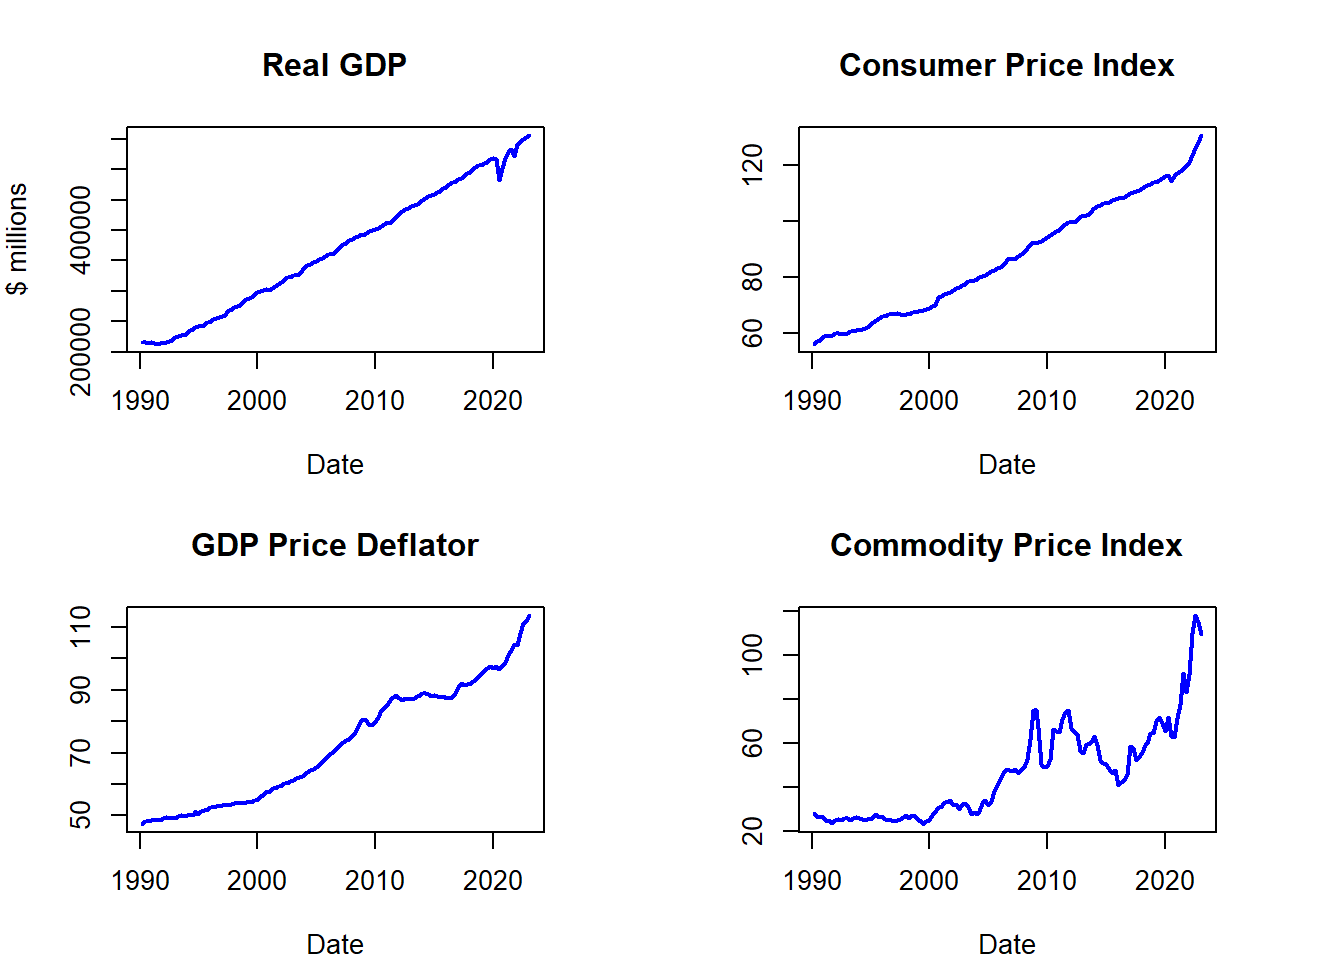
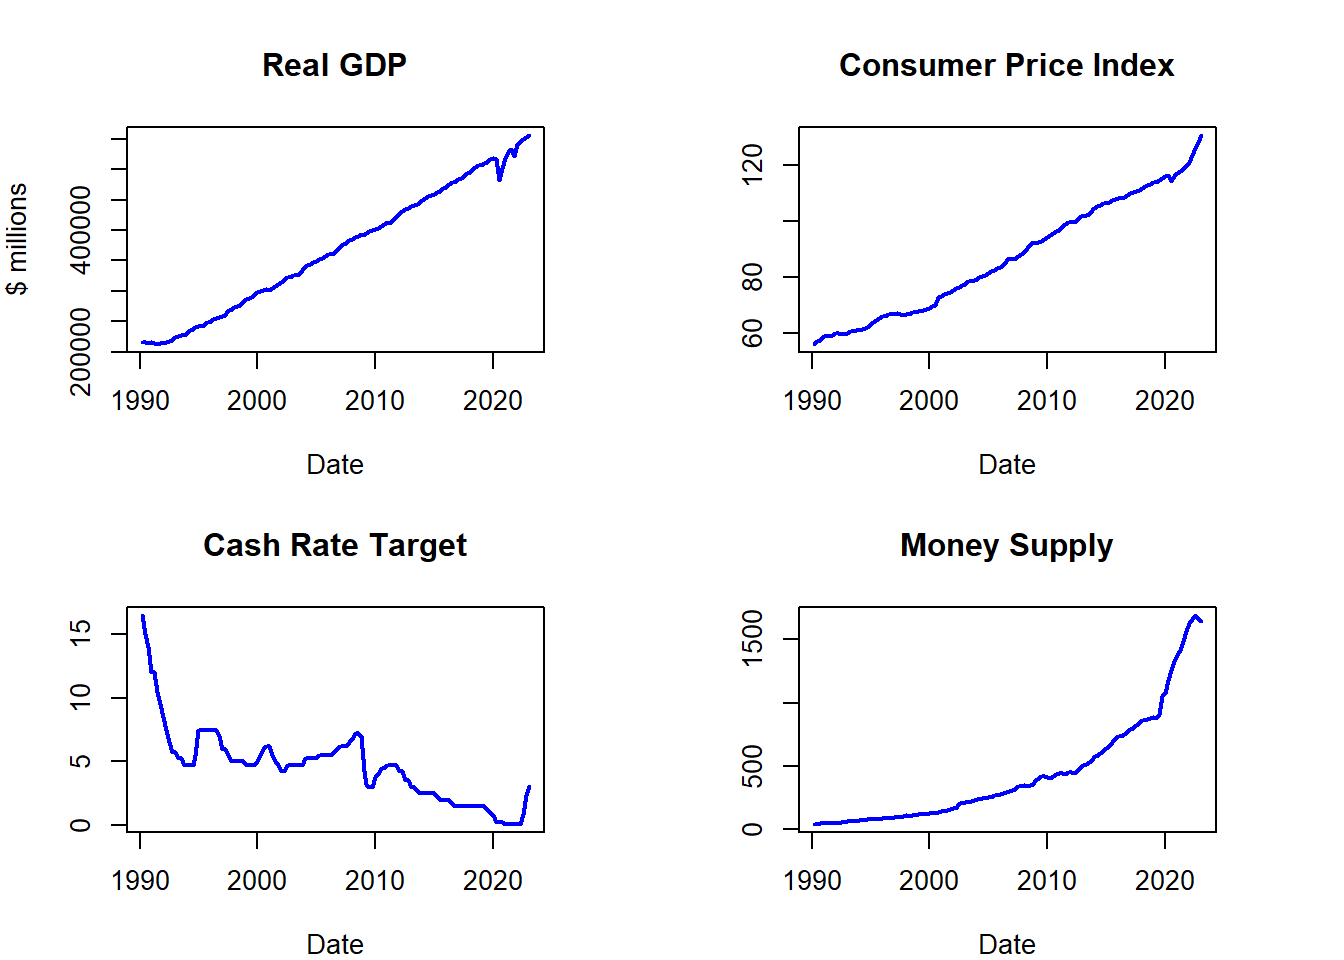
Made start on code
Attempted to obtain Sigma and A posterior.

diff --git a/docs/index.html b/docs/index.html
@@ -94,10 +94,7 @@ ul.task-list li input[type="checkbox"] {
   <ul class="collapse">
   <li><a href="#acf-and-pacf-plots" id="toc-acf-and-pacf-plots" class="nav-link" data-scroll-target="#acf-and-pacf-plots">ACF and PACF plots</a></li>
   </ul></li>
-  <li><a href="#methodology" id="toc-methodology" class="nav-link" data-scroll-target="#methodology">Methodology</a>
-  <ul class="collapse">
-  <li><a href="#references" id="toc-references" class="nav-link" data-scroll-target="#references">References</a></li>
-  </ul></li>
+  <li><a href="#methodology" id="toc-methodology" class="nav-link" data-scroll-target="#methodology">Methodology</a></li>
   </ul>
 </nav>
     </div>
@@ -149,9 +146,6 @@ ul.task-list li input[type="checkbox"] {
 <div class="cell-output-display">
 <p><img src="index_files/figure-html/plots-2.png" class="img-fluid" width="672"></p>
 </div>
-<div class="cell-output-display">
-<p><img src="index_files/figure-html/plots-3.png" class="img-fluid" width="672"></p>
-</div>
 </div>
 </section>
 <section id="preliminary-results" class="level1">
@@ -171,45 +165,50 @@ ul.task-list li input[type="checkbox"] {
 <div class="cell-output-display">
 <p><img src="index_files/figure-html/(P)ACF plots-4.png" class="img-fluid" width="672"></p>
 </div>
-<div class="cell-output-display">
-<p><img src="index_files/figure-html/(P)ACF plots-5.png" class="img-fluid" width="672"></p>
-</div>
 </div>
 <p>##Integration order verification</p>
 <div class="cell">
 <div class="cell-output cell-output-stdout">
-<pre><code>                               Variable Lag.Order ADF.Statistic   p.value
-1                              Real GDP         4     -4.101261 0.0100000
-2                  Consumer Price Index         4     -1.227300 0.8978238
-3                    GDP Price Deflator         4     -1.229906 0.8967400
-4                 Commodity Price Index         4     -1.421895 0.8169025
-5                      Cash Rate Target         4     -4.867360 0.0100000
-6                          Money Supply         4     -1.083142 0.9218481
-7         Unemployment Rate: Queensland         4     -1.863189 0.6333935
-8    Unemployment Rate: New South Wales         4     -2.828556 0.2319516
-9           Unemployment Rate: Victoria         4     -2.127751 0.5233770
-10 Unemployment Rate: Western Australia         4     -2.034770 0.5620423</code></pre>
+<pre><code>                              Variable Lag.Order ADF.Statistic   p.value
+1                             Real GDP         4     -4.101261 0.0100000
+2                 Consumer Price Index         4     -1.227300 0.8978238
+3                     Cash Rate Target         4     -4.867360 0.0100000
+4                         Money Supply         4     -1.083142 0.9218481
+5        Unemployment Rate: Queensland         4     -1.863189 0.6333935
+6   Unemployment Rate: New South Wales         4     -2.828556 0.2319516
+7          Unemployment Rate: Victoria         4     -2.127751 0.5233770
+8 Unemployment Rate: Western Australia         4     -2.034770 0.5620423</code></pre>
 </div>
 <div class="cell-output cell-output-stdout">
-<pre><code>                               Variable Lag.Order ADF.Statistic    p.value
-1                                  &lt;NA&gt;        NA            NA         NA
-2                  Consumer Price Index         3     -2.753556 0.26317856
-3                    GDP Price Deflator         3     -4.829310 0.01000000
-4                 Commodity Price Index         3     -6.557985 0.01000000
-5                                  &lt;NA&gt;        NA            NA         NA
-6                          Money Supply         3     -3.353431 0.06542824
-7         Unemployment Rate: Queensland         3     -6.545921 0.01000000
-8    Unemployment Rate: New South Wales         3     -5.257979 0.01000000
-9           Unemployment Rate: Victoria         3     -6.576128 0.01000000
-10 Unemployment Rate: Western Australia         3     -6.968956 0.01000000</code></pre>
+<pre><code>                              Variable Lag.Order     ADF.Statistic
+1                             Real GDP       N/A               N/A
+2                 Consumer Price Index         3 -2.75355555867098
+3                     Cash Rate Target       N/A               N/A
+4                         Money Supply         3  -3.3534305304591
+5        Unemployment Rate: Queensland         3 -6.54592129393322
+6   Unemployment Rate: New South Wales         3 -5.25797923475302
+7          Unemployment Rate: Victoria         3 -6.57612760557298
+8 Unemployment Rate: Western Australia         3 -6.96895591125315
+            p.value
+1               N/A
+2 0.263178561883166
+3               N/A
+4 0.065428244923483
+5              0.01
+6              0.01
+7              0.01
+8              0.01</code></pre>
 </div>
 <div class="cell-output cell-output-stdout">
-<pre><code>          Variable Lag.Order ADF.Statistic p.value
-1         Real GDP         3    -14.330921    0.01
-2             &lt;NA&gt;        NA            NA      NA
-3             &lt;NA&gt;        NA            NA      NA
-4             &lt;NA&gt;        NA            NA      NA
-5 Cash Rate Target         3     -7.925252    0.01</code></pre>
+<pre><code>                              Variable Lag.Order     ADF.Statistic p.value
+1                             Real GDP       N/A               N/A     N/A
+2                 Consumer Price Index         3 -9.83668259722552    0.01
+3                     Cash Rate Target       N/A               N/A     N/A
+4                         Money Supply         3  -5.8300171259421    0.01
+5        Unemployment Rate: Queensland       N/A               N/A     N/A
+6   Unemployment Rate: New South Wales       N/A               N/A     N/A
+7          Unemployment Rate: Victoria       N/A               N/A     N/A
+8 Unemployment Rate: Western Australia       N/A               N/A     N/A</code></pre>
 </div>
 </div>
 </section>
@@ -228,11 +227,18 @@ u_t|Y_{t-1}~iid(0_N,I_N)
 <p><span class="math inline">\(u_t\)</span> is an <span class="math inline">\(N\times 1\)</span> vector of independent structural shocks, conditional on <span class="math inline">\(Y_{t-1}\)</span>.</p>
 <p>Using this model I will give me an insight into dynamic relationships between government spending, revenue and income inequality. Impulse response functions and forecast error variance decompositions (FEVDs) will be used to analyse the effects of fiscal policy on income inequality.</p>
 <p>Using both of these techniques together, I will gain an understanding of the long- and short-run impacts of shocks to government spending and taxation.</p>
-<section id="references" class="level2 unnumbered">
-<h2 class="unnumbered anchored" data-anchor-id="references">References</h2>
+<p>#```{R modelling framework}</p>
+<p>priors = c(1, 1, 1, 1)</p>
+<p>X = rnorm(100) Y= X+ rnorm(2)</p>
+<p>posteriors &lt;- function (X, Y, priors){</p>
+<p>V.bar = 1/((t(X)%<em>%X)+(1/priors[1])) A.bar = V.bar%</em>%((t(X)%<em>%Y)+(1/priors[1])%</em>%priors[2]) nu.bar = nrow(Y) + priors[3]</p>
+<p>post_temp = c(V.bar, A.bar, nu.bar) S.bar = priors[4] + (t(Y)%<em>%Y)+ (t(priors[2])%</em>%(1/priors[1])%<em>%priors[2]) - (t(post_temp[2])%</em>%(1/post_temp[1])%*%post_temp[2])</p>
+<p>posterior = c(V.bar, A.bar, nu.bar, S.bar)</p>
+<p>return(print(posterior)) }</p>
+<p>posteriors(X = X, Y = Y, priors = priors)</p>
+<p>``` ## References {.unnumbered}</p>
 
 
-</section>
 </section>
 
 </main> <!-- /main -->
